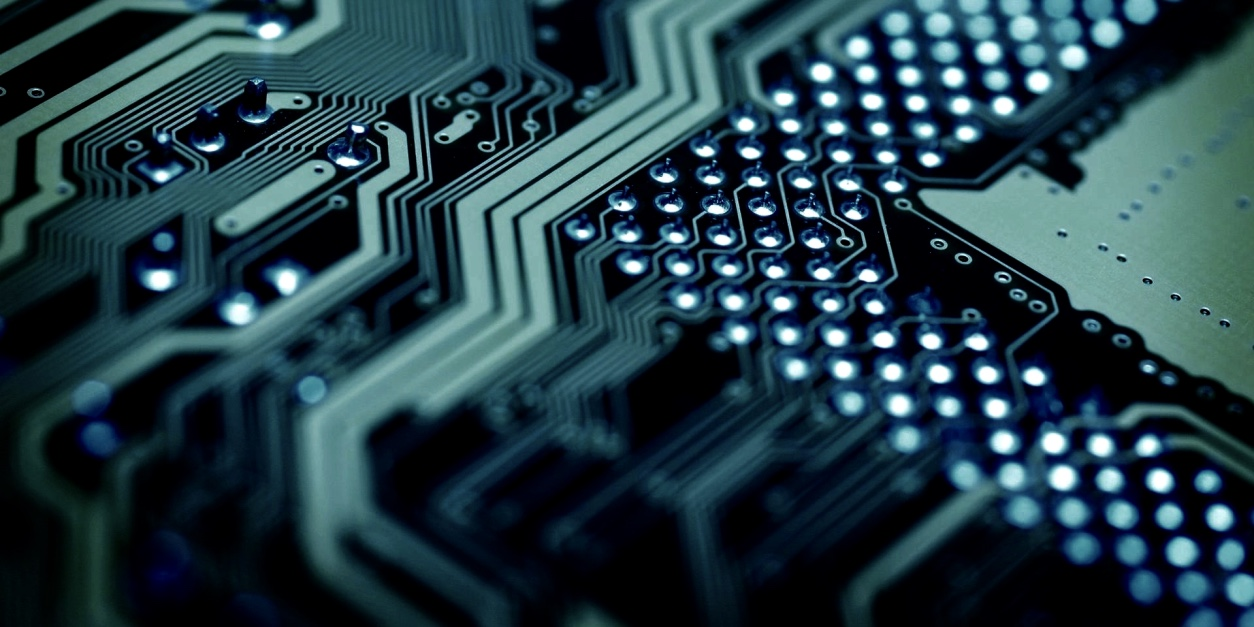
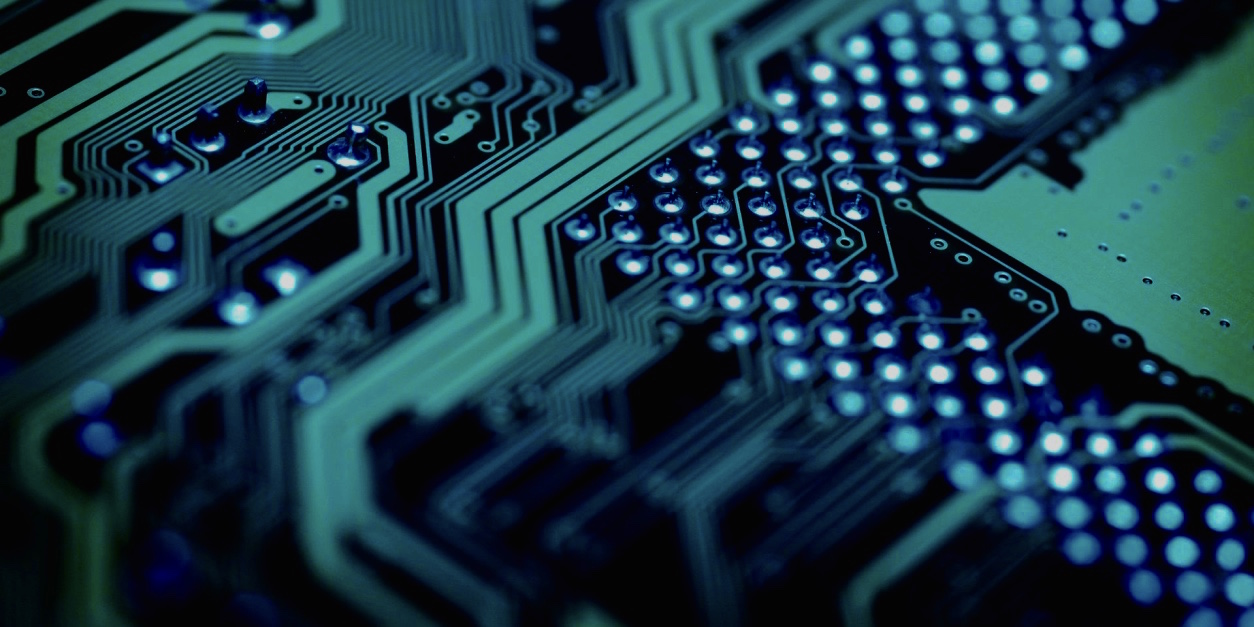
added after the expo info.  also made small color changes to voltage expo homepage.

diff --git a/expo.html b/expo.html
@@ -48,6 +48,7 @@
         <div id="navbar-scroller" class="navbar-collapse collapse">
           <ul class="nav navbar-nav">
             <li role="presentation" class="active"><a href="#">Home</a></li>
+            <li role="presentation"><a href="#afterexpo">After the Expo</a></li>
             <li role="presentation"><a href="#about">About the Expo</a></li>
             <li role="presentation"><a href="#schedule">Schedule</a></li>
             <li role="presentation"><a href="#opps">Opportunities</a></li>
@@ -78,25 +79,71 @@
         <h1 id="center">EE Expo 2015</h1>
                 
         <br>
-        <br>
-        <br>
+
 
         <h3 id="center">Explore exclusive internship and UROP opportunities in electrical engineering for freshmen and sophomores </h3>
         <br>
+
+
+
+
+
         <h5 id="center">Hosted by MIT Department of EECS and MIT IEEE/ACM's Voltage</h5>
 
+
+        <div class="span7 text-center"> <a class="btn btn-success btn-lg" href="#afterexpo">After the Expo &raquo;</a></div>
         <br>
-        <div class="span7 text-center"> <a class="btn btn-success btn-lg" href="#about">Attend &raquo;</a></div>
-       
+        <div class="span7 text-center"> <a class="btn btn-success btn-lg" href="#opps">Opportunity Listings &raquo;</a></div>
+        <br>
 
       </div> 
 
     </div>
+
+ <div id="white">
+    <div class="container" id="afterexpo">
+      <h2>After the Expo</h2>
+        <h4>Thank you to everyone who attended the first ever EE Expo! </h4> 
+        <br>
+
+        <ol>
+
+        <li>Students, please remember to fill out the status follow-up form to let us know if you have been matched with an internship/research opportunity. 
+        <br>
+                <p><a class="btn btn-default" href="https://docs.google.com/forms/d/1zjfYE3GZKuzQt8hzPnfaX8R2oC5OLDpbiCDx0vVHeA4" role="button">Status Form&raquo;</a>
+        </li>
+        <li>
+        On the website you will find UROP Listings PDF and select company listings. The password was emailed to all attendees.  Many professors are also offering additional projects.   Please contact UROP professors directly. 
+        <br>
+                        <p><a class="btn btn-default" href="#opps" role="button">Opportunity Listings&raquo;</a>
+      </li>
+      <li>
+        The companies want you to apply online at their respective websites directly.  Most companies are willing to create a project role around your interests/expertise.  Mention in your application that you found the opportunity through the EE Expo AND update the status form for special consideration.  The list of companies participating is available in the Opportunity Listings.    
+        <br>
+                        <p><a class="btn btn-default" href="#opps" role="button">Opportunity Listings&raquo;</a>
+      </li>
+      <li>
+
+        Department Head Professor Anantha Chandrakasan is holding special office hours to help EE Expo Students find internships.  This is a very exclusive opportunity that we urge you to take advantage of.  Bring your resume, application materials, and list of opportunities you are interested in.  Fill out this doodle poll to claim office hour slots with Professor Chandrakasan.  Please sign up only if you are committed to attending. 
+        <br>
+        <a class="btn btn-default" href="http://doodle.com/poll/ehqec6y97k2w857h" role="button">Office Hour Sign Up&raquo;</a></p>
+      </li>
+
+</ol>
+
+      </div></div>
+
+
     <div id="grey">
     <div class="container" id="about">
       <!-- Example row of columns -->
+      <br>
+
 
       <h2>About the Expo</h2>
+
+
+
       <p>Organized by <a href="http://www.eecs.mit.edu/">MIT Department of Electrical Engineering and Computer Science</a> and <a href="http://ieee.scripts.mit.edu/"> MIT IEEE/ACM Voltage</a>, the first ever annual Undergraduate Electrical Engineering Expo will bring together students, faculty, and industry members to explore the breadth of electrical engineering and highlight hands-on opportunities for students to get involved.  <br> <b>We expect 17 companies, 40 faculty members, and over 80 internships and research positions exclusively for freshmen/sophomores for Summer 2016. </b></p>
       <div class="row">
         <div class="col-md-4">
@@ -173,7 +220,9 @@
 
     <div class="container" id="opps">
       <h2>UROP Listings</h2>
-      <p> To view the UROP listings, confirmed attendees can use the password they have been given. UROP opportunities are listed <a href="urops.pdf">here.</a></p>
+      <p> To view the UROP listings, confirmed attendees can use the password they have been given. UROP opportunities are listed here: </a></p>
+      <br>
+      <p><a class="btn btn-default" href="#urops.pdf" role="button">UROP Listings&raquo;</a>
     </div>
   </div>
 

diff --git a/Voltage.html b/Voltage.html
@@ -66,12 +66,12 @@
         <h3 id="center">MIT IEEE/ACM's Electrical Engineering Subcommittee</h3>
         <h5 id="center"></h5>
   
-        <div style="text-align:center; padding-top:20px;"><a class="btn btn-success btn-lg" href="http://voltage.scripts.mit.edu/voltage-expo/expo.html" id="eeexpolink">To EE Expo Website &raquo;</a></div>
+
         <h2 id="center">Voltage is recruiting new members!</h2>
         <h3 id="center">Help plan events, provide resources, and change the EE community.</h3>
         <div style="text-align:center; padding-top:20px;"><a class="btn btn-success btn-lg" href="http://goo.gl/forms/DttecAqTZd" id="eeexpolink">Apply Here</a></div>
       </div>
-
+        <div style="text-align:center; padding-top:20px;"><a class="btn btn-success btn-lg" href="http://voltage.scripts.mit.edu/voltage-expo/expo.html" id="eeexpolink">To EE Expo Website &raquo;</a></div>
 
     </div>
 
@@ -81,6 +81,7 @@
         <p>Thanks to all who attended our events in 2015. Look out for Voltage in 2016...we have some great things lined up!</p>
         <h3>We're recruiting!</h3>
         <p>We are looking for new members excited about Voltage's mission to join us. <a href="#pastevents">Here</a> are some of the things we've done in the past, and we'd like to increase the impact of Voltage on Course 6-1 by doing even more. It's a great opportunity to become more involved and gain leadership experience. If this sounds interesting to you, apply <a href="http://goo.gl/forms/DttecAqTZd">here</a>. If you have any questions, please email us at <a href="mailto:voltage@mit.edu">voltage@mit.edu</a>.</p>
+                <div style="text-align:center; padding-top:20px;"><a class="btn btn-success btn-lg" href="http://goo.gl/forms/DttecAqTZd" id="eeexpolink">Apply Here</a></div>
       </div>
     </div>
 

diff --git a/Voltage.css b/Voltage.css
@@ -9,7 +9,7 @@ body {
 	-webkit-background-size: 100%;
 	-moz-background-size: 100%;
 	background-size: 100%;*/
-    background: url(images/ee-darker.jpg) no-repeat center center fixed; 
+    background: url(images/circuit2.jpg) no-repeat center center fixed; 
     -webkit-background-size: cover;
     -moz-background-size: cover;
     -o-background-size: cover;
@@ -58,7 +58,7 @@ body {
 #upcoming {
 	/**background-color: #93B1C6;**/
 	color: #ffffff;
-	background-color: #11e8dd;
+	background-color: #0da8a0;
 	padding-top: 20px;
 	padding-bottom: 20px;
 }
